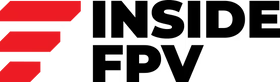
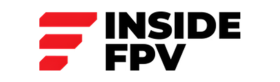
Sponsor2

diff --git a/src/app/menu/sponsors/page.jsx b/src/app/menu/sponsors/page.jsx
@@ -5,7 +5,7 @@ import unstop from "../../../images/Unstop.jpg";
 import drdo from "../../../images/Drdo.png"
 import imperial from "../../../images/imperial.png"
 import cogna from "../../../images/cogna.png"
-//import insidefpv from "../../../images/insidefpv.png"
+import insidefpv from "../../../images/insidefpv.png"
 import powerPlanner from "../../../images/powerPlaneer.jpg"
 import mitu from "../../../images/mitu.png"
 
@@ -19,18 +19,16 @@ import mitu from "../../../images/mitu.png"
 
          <h3>Powered By</h3>
          <Image src={unstop} alt="" srcset="" />
-{/* 
+ 
          <h3>Drone Partner</h3>
-        <div className="dronePartner">
-         <Image src={insidefpv} alt="" srcset=""  />
-         </div> */}
+         <Image src={insidefpv} alt="" srcset=""  /> 
 
           <h3>Associative Sponsor</h3>
          <div className="sponsor_row">
           <Image src={imperial} alt="" srcset="" />
           <Image src={cogna} alt="" srcset="" />
            <Image src={powerPlanner} alt="" srcset="" />
-          <Image src={mitu} alt="" srcset="" />
+          <Image src={mitu} alt="" srcset="" />gi
 
          </div> 
        </div>
